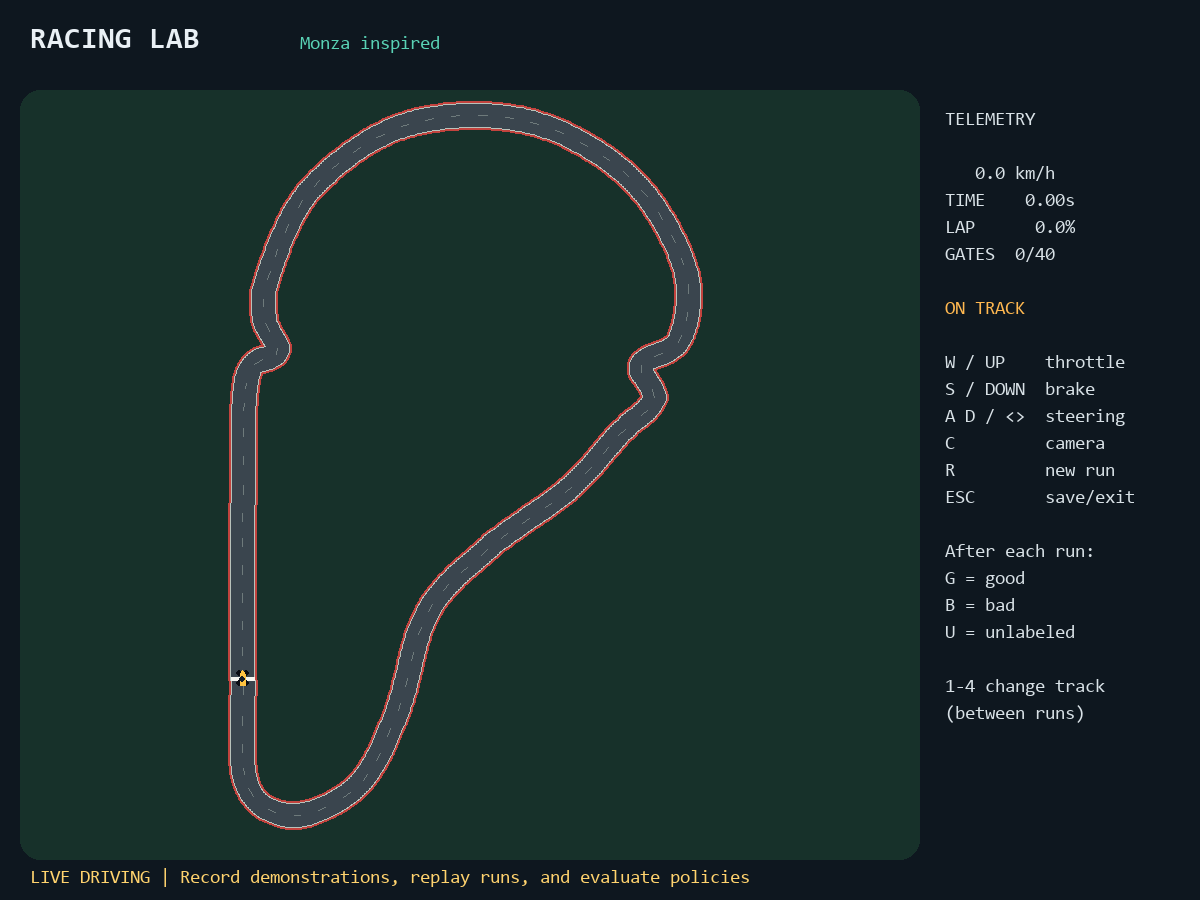
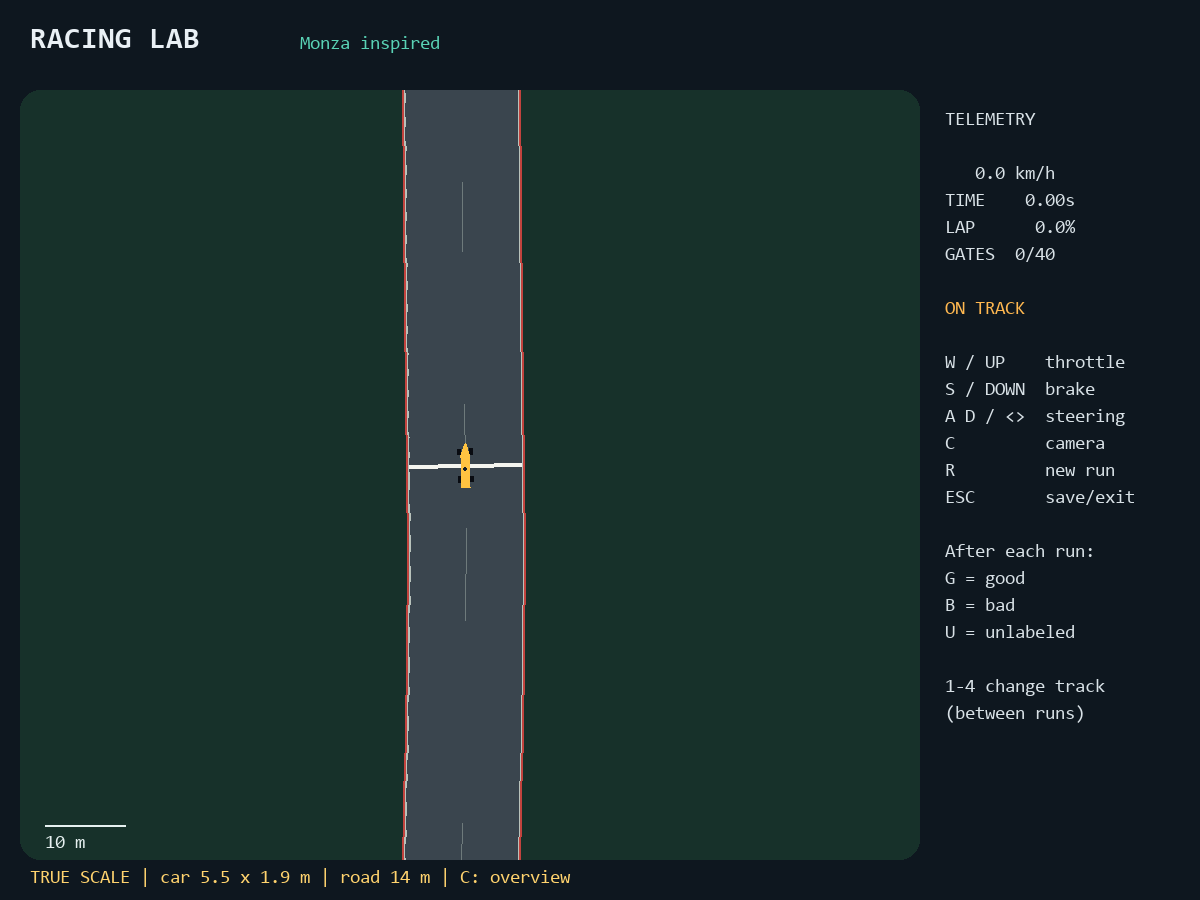
Align vehicle and road scale, include car footprint, and preserve legacy replay

Changed region(s): [[0.0308, 0.0933, 0.6167, 0.9956]]

diff --git a/racing_lab/viewer.py b/racing_lab/viewer.py
@@ -1,6 +1,7 @@
 """Pygame presentation only: never changes simulator state."""
 import numpy as np
 import pygame
+from .vehicle import CAR_LENGTH, CAR_WIDTH, WHEELBASE
 
 
 class Viewer:
@@ -12,7 +13,7 @@ class Viewer:
         self.font = pygame.font.SysFont("consolas", 19)
         self.title = pygame.font.SysFont("consolas", 30, bold=True)
         self.note = ""
-        self.zoom = False
+        self.zoom = True
         self.trail = []
 
     def draw(self, rgb=False):
@@ -22,11 +23,13 @@ class Viewer:
         scale = min(850/(hi-lo)[0], 700/(hi-lo)[1])
         center = (hi+lo)/2
         if self.zoom:
-            scale, center = 3., env.pos
+            scale = max(4., 8.-env.speed*.07)
+            center = env.pos + min(40.,env.speed*.7)*np.array([np.cos(env.heading),np.sin(env.heading)])
         def xy(p):
             return tuple(np.rint((p-center)*scale+np.array([465, 465])).astype(int))
         screen.fill((14, 23, 31))
         pygame.draw.rect(screen, (23, 49, 42), (20, 90, 900, 770), border_radius=20)
+        screen.set_clip(pygame.Rect(20,90,900,770))
         road = [xy(p) for p in pts]
         width = max(5, int(env.track.width*scale))
         # Segment rectangles in draw.lines leave gaps at diagonal joins; circles fill them.
@@ -46,14 +49,19 @@ class Viewer:
         h = env.heading
         forward = np.array([np.cos(h),np.sin(h)])
         right = np.array([-forward[1],forward[0]])
-        car_scale = max(1, 2.6/scale)
         def carpoint(x,y):
-            return xy(env.pos+car_scale*(x*forward+y*right))
-        for x in [-2., 2.]:
-            for y in [-1.3, 1.3]:
-                pygame.draw.circle(screen, (9,12,18), carpoint(x,y), max(3,int(scale*car_scale*.65)))
-        pygame.draw.polygon(screen, (255, 195, 65), [carpoint(3,0),carpoint(1,1),carpoint(-2.8,.9),carpoint(-2.8,-.9),carpoint(1,-1)])
-        pygame.draw.circle(screen, (20,30,40), carpoint(-.5,0), 3)
+            return xy(env.pos+x*forward+y*right)
+        for x in [-WHEELBASE/2, WHEELBASE/2]:
+            for y in [-CAR_WIDTH/2+.2, CAR_WIDTH/2-.2]:
+                pygame.draw.polygon(screen,(9,12,18),[carpoint(x+dx,y+dy) for dx,dy in [(-.36,-.2),(.36,-.2),(.36,.2),(-.36,.2)]])
+        half=CAR_LENGTH/2
+        pygame.draw.polygon(screen, (255, 195, 65), [carpoint(half,0),carpoint(1,.55),carpoint(-half,.6),carpoint(-half,-.6),carpoint(1,-.55)])
+        pygame.draw.circle(screen, (20,30,40), carpoint(-.5,0), max(1,round(.25*scale)))
+        if not self.zoom:
+            pygame.draw.circle(screen,(255,195,65),xy(env.pos),8,1)
+        pygame.draw.line(screen,(230,240,240),(45,825),(45+round(10*scale),825),2)
+        screen.blit(self.font.render("10 m",True,(230,240,240)),(45,833))
+        screen.set_clip(None)
         screen.blit(self.title.render("RACING LAB", True, (233,240,245)), (30,25))
         screen.blit(self.font.render(env.track.name, True, (89,210,181)), (300,34))
         info = env.info()

diff --git a/racing_lab/learning.py b/racing_lab/learning.py
@@ -4,6 +4,7 @@ from pathlib import Path
 import numpy as np
 from .data import load
 from .env import OBS_NAMES
+from .vehicle import WHEELBASE, SIMULATOR_VERSION
 
 
 def train(directory, output, seed=0, epochs=100):
@@ -13,6 +14,8 @@ def train(directory, output, seed=0, epochs=100):
     for path in sorted(Path(directory).glob("*.npz")):
         run = load(path)
         if run["metadata"]["label"] == "good" and run["metadata"]["source"] == "human":
+            if run["metadata"]["simulator_version"] != SIMULATOR_VERSION:
+                raise ValueError(f"{path}: recording uses an older simulator; keep it for replay and collect new training runs")
             if run["metadata"]["observation_names"] != OBS_NAMES:
                 raise ValueError(f"Incompatible observations: {path}")
             runs.append((path, run))
@@ -31,7 +34,7 @@ def train(directory, output, seed=0, epochs=100):
                          random_state=seed, batch_size=min(256,len(x)), learning_rate_init=.001)
     model.fit(scaler.transform(x),y)
     prediction = np.clip(model.predict(scaler.transform(vx)), [-1,0,0],[1,1,1])
-    report = {"seed":seed, "validation_action_mse":float(np.mean((prediction-vy)**2)),
+    report = {"simulator_version": SIMULATOR_VERSION, "seed":seed, "validation_action_mse":float(np.mean((prediction-vy)**2)),
               "train_runs":[runs[i][0].name for i in train_ids], "validation_runs":[runs[i][0].name for i in val_ids],
               "train_samples":len(x), "validation_samples":len(vx), "observation_names":OBS_NAMES,
               "warning":"Action prediction error is not evidence of successful autonomous driving."}
@@ -48,6 +51,8 @@ def train(directory, output, seed=0, epochs=100):
 class Policy:
     def __init__(self,path):
         with np.load(path,allow_pickle=False) as z:
+            if json.loads(str(z["metadata"])).get("simulator_version") != SIMULATOR_VERSION:
+                raise ValueError("Model uses an older simulator; retrain on current-version demonstrations")
             self.mean,self.scale = z["mean"].copy(),z["scale"].copy()
             self.weights = [(z[f"w{i}"].copy(),z[f"b{i}"].copy()) for i in range(3)]
 
@@ -66,7 +71,7 @@ def reference_driver(env):
     look = 10+env.speed*.65
     target = env.track.sample(s+look)-env.pos
     alpha = np.arctan2(target[1],target[0])-env.heading
-    steer = np.arctan2(2*3.6*np.sin(alpha),look)/.45
+    steer = np.arctan2(2*WHEELBASE*np.sin(alpha),look)/.45
     target_speed = 14.
     return np.array([np.clip(steer,-1,1),np.clip((target_speed-env.speed)*.5,0,1),
                      np.clip((env.speed-target_speed)*.3,0,1)],np.float32)

diff --git a/racing_lab/env.py b/racing_lab/env.py
@@ -3,6 +3,7 @@ import numpy as np
 import gymnasium as gym
 from gymnasium import spaces
 from .track import Track
+from .vehicle import WHEELBASE, road_envelope
 
 DT = 1 / 60
 LOOKAHEAD = np.array([10, 25, 50, 90, 150, 230], dtype=float)
@@ -60,10 +61,10 @@ class RacingEnv(gym.Env):
                          self.track.width/40, *(local/230).ravel()], dtype=np.float32)
 
     def info(self):
-        _, lateral, _ = self.track.project(self.pos)
+        _, lateral, tangent = self.track.project(self.pos)
         success = self.progress >= self.track.length and self.next_checkpoint >= 41
         return {"track": self.track.name, "elapsed": self.steps*DT, "progress": self.progress/self.track.length,
-                "offtrack": abs(lateral)>self.track.width/2, "offtrack_fraction": self.offtrack_steps/max(1,self.steps),
+                "offtrack": bool(abs(lateral)+road_envelope(self.heading-tangent)>self.track.width/2), "offtrack_fraction": self.offtrack_steps/max(1,self.steps),
                 "success": bool(success), "lap_time": self.steps*DT if success else None,
                 "smoothness": self.smoothness/max(1,self.steps), "checkpoint": self.next_checkpoint-1}
 
@@ -78,13 +79,12 @@ class RacingEnv(gym.Env):
         self.smoothness += change
         self.action = a.copy()
         self.steering += np.clip(a[0]*.45-self.steering, -1.5*DT, 1.5*DT)
-        _, lateral, _ = self.track.project(self.pos)
-        off = abs(lateral)>self.track.width/2
+        off = self.info()["offtrack"]
         accel = a[1]*12-a[2]*24-.0017*self.speed**2-.12*self.speed
         if off:
             accel -= 1.8*self.speed
         self.speed = float(np.clip(self.speed+accel*DT, 0, 85))
-        desired_yaw = self.speed/3.6*np.tan(self.steering)
+        desired_yaw = self.speed/WHEELBASE*np.tan(self.steering)
         grip = (8 if off else 17) / max(self.speed, 2)
         target_yaw = np.clip(desired_yaw, -grip, grip)
         self.yaw_rate += (target_yaw-self.yaw_rate)*min(1, DT*9)
@@ -96,7 +96,7 @@ class RacingEnv(gym.Env):
         s, lateral, _ = self.track.project(self.pos)
         delta = (s-self.last_s+self.track.length/2) % self.track.length-self.track.length/2
         self.last_s = s
-        off = abs(lateral)>self.track.width/2
+        off = self.info()["offtrack"]
         # Ignore projection jumps; require every gate in order on the road.
         valid_delta = delta if abs(delta)<max(5, self.speed*DT*3) else 0.
         self.progress += valid_delta

diff --git a/tests/test_environment.py b/tests/test_environment.py
@@ -93,6 +93,48 @@ def test_rgb_render():
     env.close()
 
 
+def test_vehicle_scale_and_road_edge():
+    from racing_lab.vehicle import CAR_WIDTH,CAR_LENGTH,WHEELBASE,road_envelope
+    assert CAR_WIDTH < WHEELBASE < CAR_LENGTH
+    assert road_envelope(0)==pytest.approx(CAR_WIDTH/2)
+    assert road_envelope(np.pi/2)==pytest.approx(CAR_LENGTH/2)
+    env=RacingEnv()
+    env.reset()
+    # Use the middle of Monza's straight, away from any bend.
+    env.pos=env.track.sample(100)
+    _,_,env.heading=env.track.project(env.pos)
+    normal=np.array([-np.sin(env.heading),np.cos(env.heading)])
+    env.pos += normal*(env.track.width/2-CAR_WIDTH/2-.05)
+    assert not env.info()["offtrack"]
+    env.pos += normal*.1
+    assert env.info()["offtrack"]
+
+
+def test_longitudinal_speed_and_braking():
+    env=RacingEnv(max_seconds=120)
+    env.reset()
+    # Keep position on the start straight to isolate longitudinal dynamics.
+    origin=env.pos.copy()
+    zero_to_100=None
+    for i in range(3600):
+        env.pos=origin.copy()
+        env.step([0,1,0])
+        if zero_to_100 is None and env.speed*3.6>=100:
+            zero_to_100=(i+1)/60
+    assert 2.5<zero_to_100<4
+    assert 199<env.speed*3.6<202
+    env.speed=100/3.6
+    distance=0.
+    for _ in range(120):
+        env.pos=origin.copy()
+        env.step([0,0,1])
+        distance+=env.speed/60
+        if env.speed==0:
+            break
+    assert env.speed==0
+    assert 12<distance<18
+
+
 def test_play_save_label_and_exit(tmp_path,monkeypatch):
     import argparse
     import pygame

diff --git a/racing_lab/data.py b/racing_lab/data.py
@@ -5,6 +5,7 @@ from pathlib import Path
 from uuid import uuid4
 import numpy as np
 from .env import DT, OBS_NAMES
+from .vehicle import SIMULATOR_VERSION, CAR_LENGTH, CAR_WIDTH, WHEELBASE
 
 
 class Recorder:
@@ -36,7 +37,8 @@ class Recorder:
         stamp = datetime.now(timezone.utc).strftime("%Y%m%dT%H%M%SZ")
         path = directory / f"{stamp}_{uuid4().hex[:8]}.npz"
         env = self.env
-        meta = {"schema_version": 1, "simulator_version": "0.1.0", "track": env.track.name,
+        meta = {"schema_version": 1, "simulator_version": SIMULATOR_VERSION, "track": env.track.name,
+                "vehicle": {"length_m": CAR_LENGTH, "width_m": CAR_WIDTH, "wheelbase_m": WHEELBASE},
                 "track_version": env.track.version, "track_sha256": env.track.digest,
                 "dt": DT, "seed": self.seed, "label": label, "source": self.source, "reason": reason,
                 "observation_names": OBS_NAMES, "state_names": ["x","y","heading","speed","lateral_speed","yaw_rate","steering"],

diff --git a/racing_lab/cli.py b/racing_lab/cli.py
@@ -3,7 +3,7 @@ import json
 from pathlib import Path
 import numpy as np
 from .env import RacingEnv, DT
-from .track import names, Track
+from .track import names, Track, TRACK_DIR
 from .data import Recorder, load
 from .learning import Policy, train, reference_driver
 
@@ -70,7 +70,7 @@ def replay(args):
     import pygame
     data=load(args.file)
     meta=data["metadata"]
-    track=next((n for n in names() if Track(n).digest==meta["track_sha256"]),None)
+    track=next((str(p) for p in TRACK_DIR.rglob("*.json") if Track(str(p)).digest==meta["track_sha256"]),None)
     if track is None:
         raise ValueError("Recording track hash does not match an installed layout")
     env=RacingEnv(track)

diff --git a/racing_lab/vehicle.py b/racing_lab/vehicle.py
@@ -1,0 +1,11 @@
+"""Shared dimensions in metres; these are game parameters, not homologation data."""
+SIMULATOR_VERSION = "0.2.0"
+CAR_LENGTH = 5.5
+CAR_WIDTH = 1.9
+WHEELBASE = 3.4
+
+
+def road_envelope(heading_error):
+    """Half of the rectangular car's projection across a locally straight road."""
+    import numpy as np
+    return abs(np.cos(heading_error))*CAR_WIDTH/2 + abs(np.sin(heading_error))*CAR_LENGTH/2

diff --git a/README.md b/README.md
@@ -102,6 +102,14 @@ The 20 float32 observations contain normalized speed, lateral speed, yaw rate, s
 
 The simulator uses a simplified bicycle model, steering slew limits, speed-dependent cornering grip, lateral slip, drag, and off-road deceleration. It is an approachable game model, **not an engineering-accurate F1 model**. Cars cannot reverse. Ordered road checkpoints discourage shortcuts; they do not constitute exact continuous boundary enforcement between gates.
 
+### Scale and speed (simulator 0.2.0)
+
+All positions and dimensions use metres, speeds use metres/second internally, and the HUD converts to km/h. The car is 5.5 m long and 1.9 m wide, with a 3.4 m wheelbase. The renderer uses these same dimensions without enlarging the car. The default following camera uses 8 pixels/metre at rest and widens toward 4 pixels/metre at speed, looking ahead along the heading so braking points stay visible. The overview adds a locator ring around the physically scaled car. Both views include a 10 m scale bar.
+
+Road widths are 14 m (Monza/Suzuka) or 16 m (Silverstone/Spa): about 7.4–8.4 car widths. These are chosen game widths, not measurements of the named real circuits. Layouts remain compact, approximately 2.2–2.6 km. Straight-line terminal speed is about 201 km/h under the drag model, even though the numerical speed cap is 306 km/h. Nominal lateral grip is 17 m/s² (about 1.73 g), so a 50 m radius bend suggests about 105 km/h under the steady-state bicycle approximation. Acceleration, braking and grip are deliberately approachable game settings, not calibrated real F1 performance.
+
+Road-edge checks include the car's width and heading-dependent length projected across the local road tangent. This is a rectangular-envelope approximation, not exact tyre contact simulation on curved boundaries. Legacy track files are retained for replay of version 0.1.0 recordings. Old recordings remain untouched; training rejects incompatible simulator versions instead of silently mixing different dynamics. Record new demonstrations for version 0.2.0 models.
+
 ## Dataset format and inverse-learning hooks
 
 Each `.npz` file loads with `numpy.load(path, allow_pickle=False)`:
